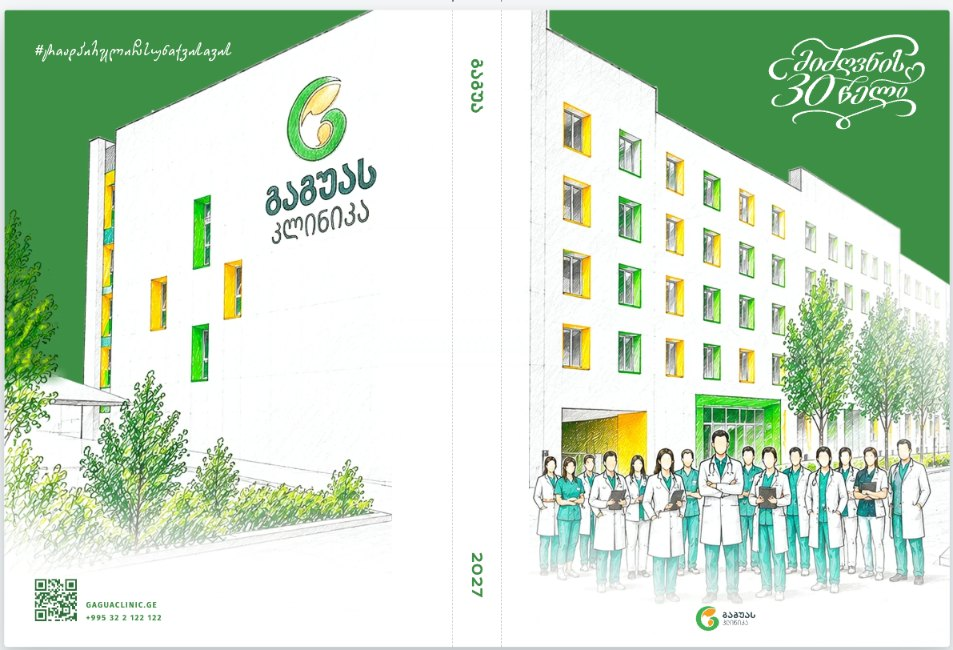
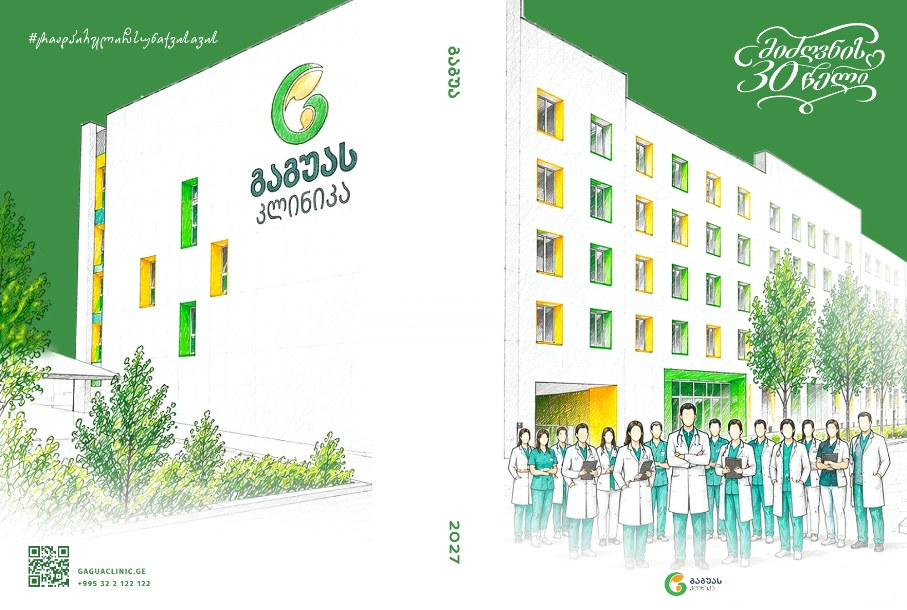
Gagua kit: clean 1:1 pieces with their shadows drawn in CSS, never cut
Claude-Session: https://claude.ai/code/session_01Qp5BUKYT9N3deWkwTKb9NA

Changed region(s): [[0.0, 0.0, 1.0, 1.0], [0.4939, 0.0623, 0.5248, 0.1869], [0.4939, 0.841, 0.5248, 0.9344]]

diff --git a/src/app/baked/gagua-case.tsx b/src/app/baked/gagua-case.tsx
@@ -182,11 +182,19 @@ function Campaigns() {
   );
 }
 
-/** a printed piece on the light ground it was laid out on */
-function Stage({ src, alt, w, h, pad = '6%', bg = '#F4F6F7', className = '' }: { src: string; alt: string; w: number; h: number; pad?: string; bg?: string; className?: string }) {
+/** printed pieces on a light ground. The shadow is drawn here, with room
+ *  around it, so it is never cut at the edge */
+const SHADOW = '0 14px 28px rgba(25,40,50,.16), 0 2px 6px rgba(25,40,50,.10)';
+type Sheet = { src: string; alt: string; w: number; h: number; radius?: number };
+function Stage({ items, bg = '#F4F6F7', className = '', pad = 'clamp(28px, 6%, 64px)', gap = 'clamp(16px, 4%, 40px)' }: { items: Sheet[]; bg?: string; className?: string; pad?: string; gap?: string }) {
+  // grow in proportion to each sheet's width at a shared height; the narrowest counts as 1, so the row is always filled
+  const least = Math.min(...items.map((m) => m.w / m.h));
   return (
-    <div className={`overflow-hidden rounded-md flex items-center justify-center ${className}`} style={{ background: bg, padding: pad }}>
-      <img src={src} alt={alt} width={w} height={h} loading="lazy" decoding="async" draggable={false} className="block h-auto w-full max-h-full object-contain" style={{ aspectRatio: `${w}/${h}` }} />
+    <div className={`rounded-md flex items-center justify-center ${className}`} style={{ background: bg, padding: pad, gap }}>
+      {items.map((m) => (
+        <img key={m.src} src={m.src} alt={m.alt} width={m.w} height={m.h} loading="lazy" decoding="async" draggable={false}
+          className="block h-auto min-w-0" style={{ flex: `${m.w / m.h / least} 1 0%`, width: items.length > 1 ? undefined : '100%', aspectRatio: `${m.w}/${m.h}`, boxShadow: SHADOW, borderRadius: m.radius ?? 2 }} />
+      ))}
     </div>
   );
 }
@@ -198,7 +206,7 @@ function KitNotes() {
     [tx('Three months at once', 'სამი თვე ერთად'), tx('The wall calendar shows last, this and next month. A red frame slides to today, a yellow band marks the week.', 'კედლის კალენდარზე ერთად ჩანს წინა, მიმდინარე და შემდეგი თვე. წითელი ჩარჩო დღეზე გადაადგილდება, ყვითელი ზოლი კვირას აჩვენებს.')],
     [tx('Days worth marking', 'მნიშვნელოვანი დღეები'), tx('Twelve removable window stickers mark a date without hiding it. Weekends and holidays are green, each holiday named.', 'თორმეტი მოსახსნელი ფანჯრის სტიკერი თარიღს ნიშნავს და არ ფარავს. შაბათ-კვირა და უქმეები მწვანეა, უქმე სახელით.')],
     [tx('A notebook for the day', 'ბლოკნოტი ყოველდღისთვის'), tx('The year on the first spread, then a day plan: the one main thing, the hours, a checklist and notes.', 'პირველ გაშლაზე მთელი წელი, შემდეგ დღის გეგმა: დღის მთავარი, საათები, გასაკეთებელი და შენიშვნები.')],
-    [tx('Kept, not thrown away', 'შესანახი'), tx('The card tears into a bookmark, and the spine reads “Gagua 2027” on a shelf.', 'ბარათი სანიშნედ იხევა, ბლოკნოტის ზურგზე კი თაროზეც იკითხება „გაგუა 2027“.')],
+    [tx('Kept, not thrown away', 'შესანახი'), tx('The card’s side strip tears off into a bookmark, and the spine reads “Gagua 2027” on a shelf.', 'ბარათის გვერდითი ზოლი სანიშნედ იხევა, ბლოკნოტის ზურგზე კი თაროზეც იკითხება „გაგუა 2027“.')],
   ];
   return (
     <dl className="grid grid-cols-1 sm:grid-cols-2 gap-x-8 gap-y-6 content-start">
@@ -319,22 +327,25 @@ export function GaguaCase() {
             <img src={`${P}/kit-mockup.jpg`} alt={tx('The kit on a desk: wall calendar, open notebook with a bookmark, and the card', 'ნაკრები მაგიდაზე: კედლის კალენდარი, გაშლილი ბლოკნოტი სანიშნით და ბარათი')} loading="lazy" decoding="async" className="block h-full w-full object-cover" />
           </div>
           <div className="mx-auto w-full max-w-[1040px] flex flex-col gap-1.5">
-            <Stage src={`${P}/kit-wrap.jpg`} alt={tx('Notebook cover, opened flat: back, spine and front', 'ბლოკნოტის ყდა გაშლილი: უკანა მხარე, ზურგი და წინა მხარე')} w={953} h={650} />
+            <Stage items={[{ src: `${P}/kit-wrap.jpg`, alt: tx('Notebook cover, opened flat: back, spine and front', 'ბლოკნოტის ყდა გაშლილი: უკანა მხარე, ზურგი და წინა მხარე'), w: 907, h: 610 }]} pad="clamp(28px, 8%, 80px)" />
             <div className="grid grid-cols-1 sm:grid-cols-2 gap-1.5">
-              <Stage src={`${P}/kit-spread.jpg`} alt={tx('First spread: the year at a glance', 'პირველი გაშლა: მთელი წელი')} w={1007} h={726} pad="5%" />
-              <Stage src={`${P}/kit-plan.jpg`} alt={tx('Inside pages: notes and the day plan', 'შიდა გვერდები: ჩანაწერები და დღის გეგმა')} w={1007} h={726} pad="5%" />
+              <Stage items={[{ src: `${P}/kit-spread.jpg`, alt: tx('First spread: the year at a glance', 'პირველი გაშლა: მთელი წელი'), w: 893, h: 632 }]} />
+              <Stage items={[{ src: `${P}/kit-plan.jpg`, alt: tx('Inside pages: notes and the day plan', 'შიდა გვერდები: ჩანაწერები და დღის გეგმა'), w: 893, h: 632 }]} />
             </div>
-            <Stage src={`${P}/kit-card.jpg`} alt={tx('The card, front and back, and its tear-off bookmark', 'ბარათი, წინა და უკანა მხარე, და მოსახევი სანიშნე')} w={1411} h={442} pad="5% 4%" />
+            <Stage className="flex-col sm:flex-row" items={[
+              { src: `${P}/kit-card-front.jpg`, alt: tx('The card, front: the team at the clinic and a tear-off strip', 'ბარათი, წინა მხარე: გუნდი კლინიკასთან და მოსახევი ზოლი'), w: 836, h: 593 },
+              { src: `${P}/kit-card-back.jpg`, alt: tx('The card, back: the anniversary lettering and room to write', 'ბარათი, უკანა მხარე: იუბილეს ლეტერინგი და ადგილი წერისთვის'), w: 837, h: 593 },
+            ]} />
           </div>
         </section>
         <section className="px-1.5 pt-1.5">
           <div className="mx-auto w-full max-w-[1040px] grid grid-cols-1 md:grid-cols-[minmax(0,0.8fr)_minmax(0,1.6fr)] gap-1.5">
-            <Stage src={`${P}/kit-calendar.jpg`} alt={tx('The wall calendar: three months under the anniversary drawing', 'კედლის კალენდარი: სამი თვე იუბილეს ილუსტრაციის ქვეშ')} w={474} h={1146} bg="#E8ECEE" pad="7% 12%" />
+            <Stage items={[{ src: `${P}/kit-calendar.jpg`, alt: tx('The wall calendar: three months under the anniversary drawing', 'კედლის კალენდარი: სამი თვე იუბილეს ილუსტრაციის ქვეშ'), w: 645, h: 1550 }]} pad="clamp(28px, 12%, 64px)" />
             <div className="flex flex-col gap-1.5">
-              <Stage src={`${P}/kit-january.jpg`} alt={tx('January 2027 up close: the red frame on today and a window sticker', 'იანვარი 2027 ახლოდან: წითელი ჩარჩო დღეზე და ფანჯრის სტიკერი')} w={1016} h={506} pad="4%" />
+              <Stage items={[{ src: `${P}/kit-january.jpg`, alt: tx('January 2027, one sheet: holidays green and named', 'იანვარი 2027, ერთი ფურცელი: უქმეები მწვანე, სახელით'), w: 1153, h: 545 }]} />
               <div className="flex-1 rounded-md bg-white border border-[#eee] p-5 sm:p-7 grid grid-cols-[minmax(0,1fr)_88px] sm:grid-cols-[minmax(0,1fr)_120px] gap-5 sm:gap-7">
                 <KitNotes />
-                <img src={`${P}/kit-stickers.jpg`} alt={tx('Sheet of twelve window stickers', 'თორმეტი ფანჯრის სტიკერის ფურცელი')} width={195} height={225} loading="lazy" decoding="async" className="w-full h-auto rounded-md self-start" />
+                <img src={`${P}/kit-stickers.jpg`} alt={tx('Sheet of twelve window stickers', 'თორმეტი ფანჯრის სტიკერის ფურცელი')} width={293} height={372} loading="lazy" decoding="async" className="w-full h-auto self-start" style={{ borderRadius: 8, boxShadow: SHADOW }} />
               </div>
             </div>
           </div>
